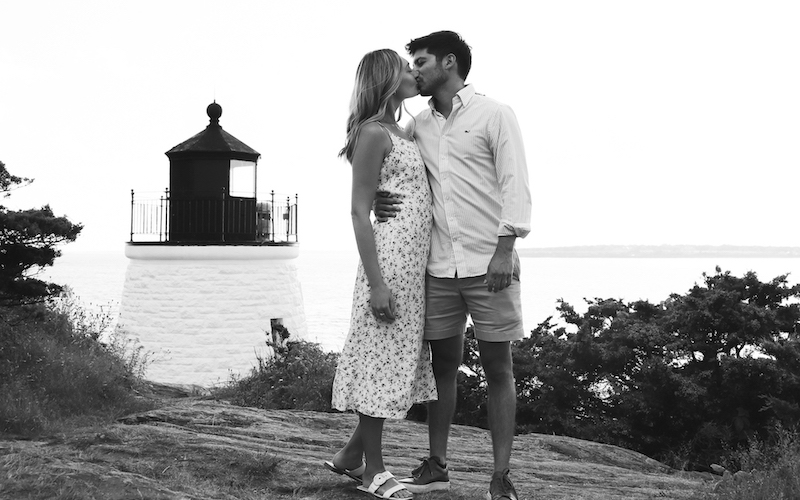
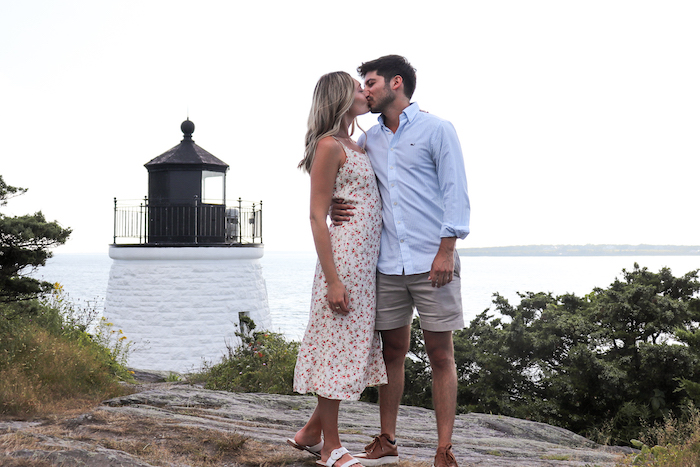
proposal header

diff --git a/pages/the-proposal.tsx b/pages/the-proposal.tsx
@@ -15,19 +15,27 @@ import pic8 from '../public/assets/8.jpg';
 import pic9 from '../public/assets/9.jpg';
 import pic10 from '../public/assets/10.jpg';
 import pic11 from '../public/assets/11.jpg';
+import pic12 from '../public/assets/12.jpg';
+import pic13 from '../public/assets/13.jpg';
+import pic14 from '../public/assets/14.jpg';
 import lighthouseImage from '../public/assets/lighthouse.jpg';
 
 function TheProposal(): JSX.Element {
   return (
     <Layout title="The Proposal">
-      <h1 className="z-10 xs:block xs:ml-0 ml-40 xs:mt-0 mt-8 text-center text-black font-sans xs:text-6xl text-7xl font-extralight md:absolute lg:absolute">
-        The Proposal
-      </h1>
-      <h2 className="z-10 xs:block xs:ml-0 ml-64 xs:mt-0 mt-28 text-center text-black font-custom xs:text-4xl text-6xl md:absolute lg:absolute">
-        at Castle Hill Inn
-      </h2>
-      <div className="grid gap-0 xs:grid-cols-1 grid-cols-2 grid-rows-1 mx-0">
-        <div className="relative w-full h-auto">
+      <div className="grid gap-0 xs:grid-cols-1 grid-cols-5 grid-rows-1 items-center mb-10 mx-0">
+        <div className="text-center">
+          <p className="mb-0 xs:mb-6 mx-auto px-10 py-2 w-max text-3xl xs:text-xl bg-white transform -rotate-90 xs:rotate-0">
+            AUGUST 02, 2021
+          </p>
+        </div>
+        <div className="relative col-span-3 p-3 w-full h-auto border-4 border-white">
+          <h1 className="absolute z-10 left-0 right-0 xs:mt-0 mt-8 mx-auto w-max text-center text-black font-sans text-13xl xs:text-5xl font-extralight">
+            The Proposal
+          </h1>
+          <h2 className="absolute z-10 -right-40 left-0 xs:right-0 xs:mt-14 mt-28 mx-auto w-max text-center text-black font-custom xs:text-3xl text-6xl">
+            at Castle Hill Inn
+          </h2>
           <Image
             src={lighthouseImage}
             alt="Castle Hill Inn"
@@ -35,21 +43,13 @@ function TheProposal(): JSX.Element {
             // objectFit="cover"
           />
         </div>
-        <div className="relative w-full h-auto grayscale filter">
-          <Image
-            src={kissImage}
-            alt="Castle Hill Inn"
-            // layout="fill"
-            // objectFit="cover"
-          />
-        </div>
+        <p className="mt-0 xs:mt-6 mx-auto px-10 py-2 w-max text-3xl xs:text-xl bg-white transform xs:rotate-0 rotate-90">
+          NEWPORT, RI
+        </p>
       </div>
       <Container>
         <section className="mb-12">
-          <h2 className="my-8 text-center text-black text-4xl tracking-wide">
-            AUGUST 02, 2021
-          </h2>
-          <div className="grid gap-8 xs:grid-cols-1 grid-cols-2 grid-rows-2 xs:grid-rows-4 xs:mx-2 mx-4">
+          <div className="grid gap-8 xs:grid-cols-1 grid-cols-2 grid-rows-3 xs:grid-rows-6 xs:mx-2 mx-4">
             <div className="relative w-full h-auto">
               <Image
                 src={pic5}
@@ -81,6 +81,22 @@ function TheProposal(): JSX.Element {
                 objectFit="cover"
               />
             </div>
+            <div className="relative w-full h-auto">
+              <Image
+                src={kissImage}
+                alt="Nick and Laney kissing"
+                layout="fill"
+                objectFit="cover"
+              />
+            </div>
+            <div className="relative w-full h-auto">
+              <Image
+                src={pic12}
+                alt="Nick and Laney looking at ring"
+                layout="fill"
+                objectFit="cover"
+              />
+            </div>
           </div>
           <div className="grid gap-4 xs:grid-cols-1 grid-cols-3 grid-rows-1 xs:grid-rows-3 mt-12 xs:mx-2 mx-4 md:mt-48">
             <div className="relative w-full h-auto">
@@ -93,7 +109,7 @@ function TheProposal(): JSX.Element {
               <Image src={pic2} alt="Hand" />
             </div>
           </div>
-          <div className="grid gap-8 xs:grid-cols-1 grid-cols-2 grid-rows-2 xs:grid-rows-4 mt-8 xs:mx-2 mx-4">
+          <div className="grid gap-8 xs:grid-cols-1 grid-cols-2 grid-rows-3 xs:grid-rows-6 mt-8 xs:mx-2 mx-4">
             <div className="relative w-full h-auto">
               <Image
                 src={pic6}
@@ -117,6 +133,22 @@ function TheProposal(): JSX.Element {
               <Image
                 src={pic11}
                 alt="Laney showing off her ring"
+                layout="fill"
+                objectFit="cover"
+              />
+            </div>
+            <div className="relative w-full h-auto">
+              <Image
+                src={pic13}
+                alt="Nick and laney"
+                layout="fill"
+                objectFit="cover"
+              />
+            </div>
+            <div className="relative w-full h-auto">
+              <Image
+                src={pic14}
+                alt="Laney smiling"
                 layout="fill"
                 objectFit="cover"
               />
